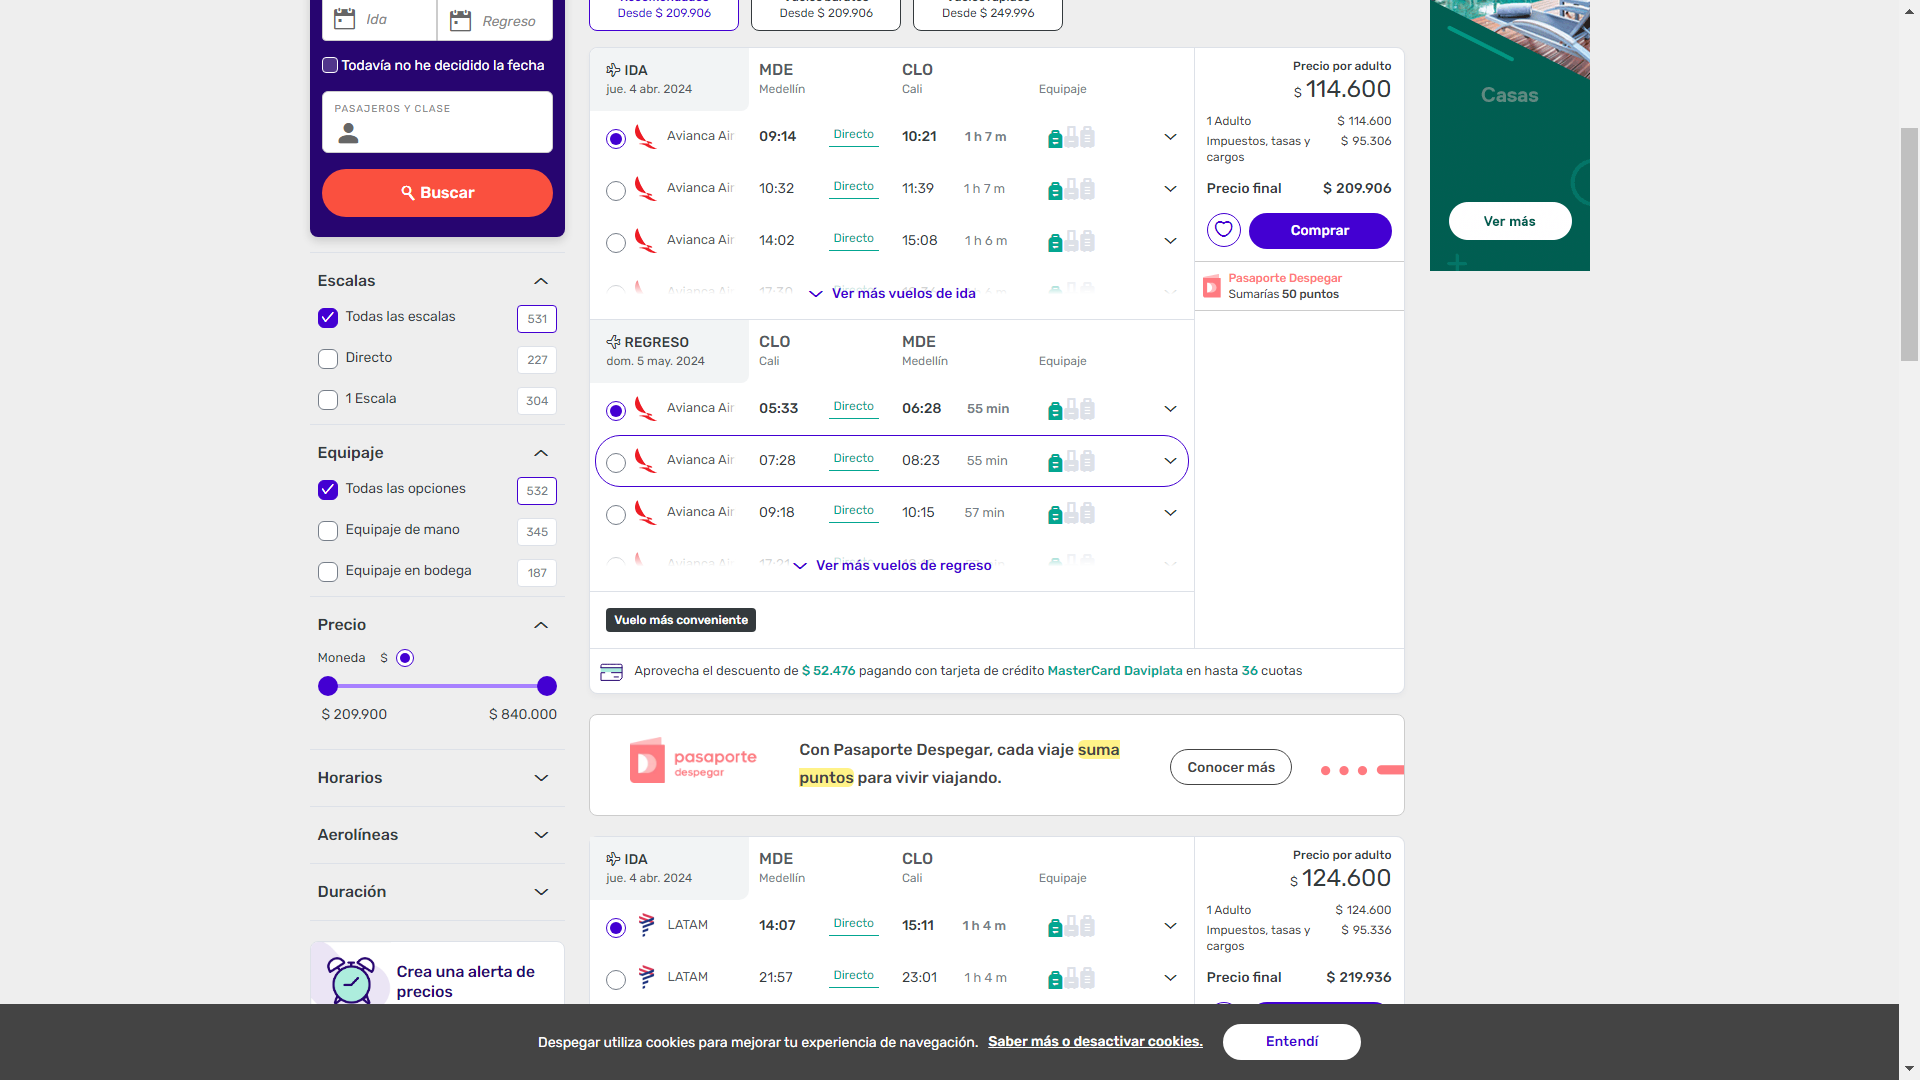
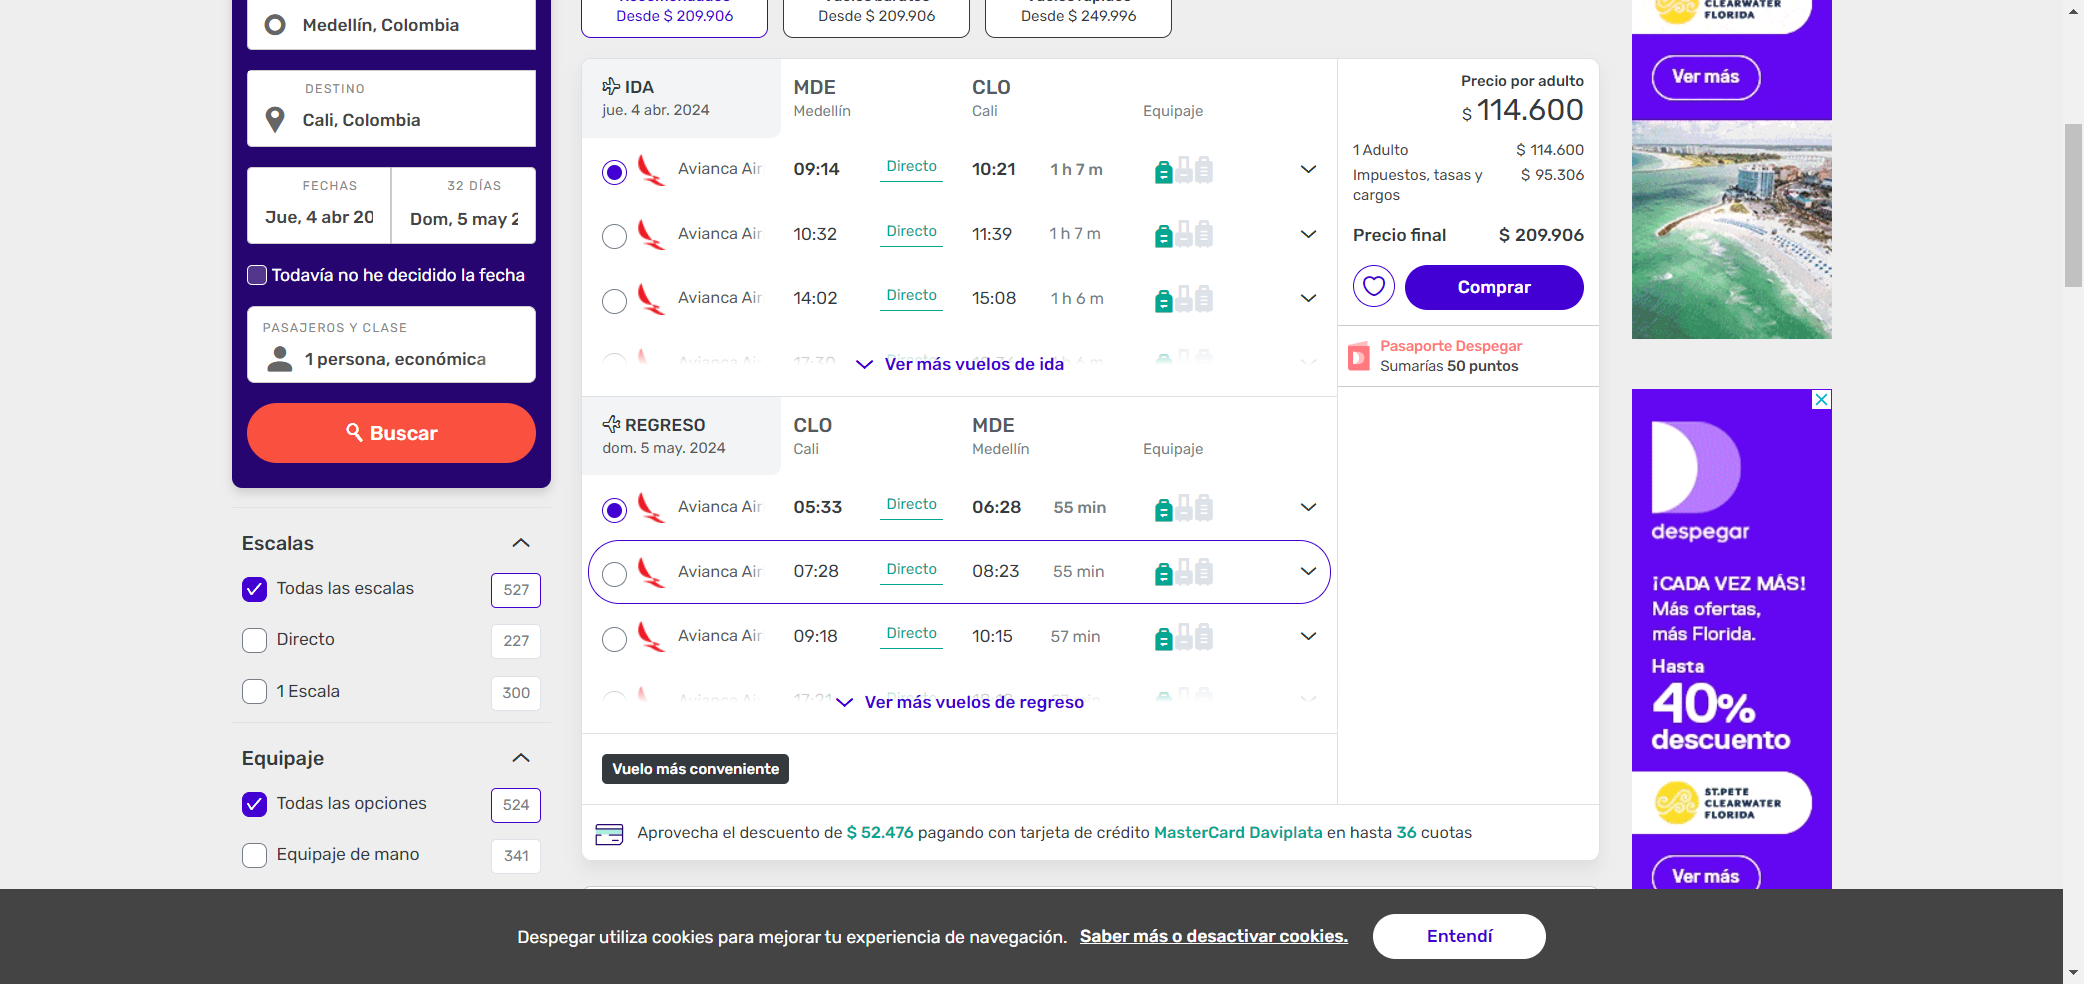
fix(Pom.xml): removing screenshot methods.

diff --git a/src/test/java/cucumber/tests/Steps.java b/src/test/java/cucumber/tests/Steps.java
@@ -62,8 +62,8 @@ public class Steps {
         WebDriverManager.chromedriver().setup();
         ChromeOptions chromeOptions = new ChromeOptions();
       // chromeOptions.addArguments("disable-infobars"); // disabling infobars
-        chromeOptions.addArguments("--headless");
-        chromeOptions.addArguments("--window-size=1920,1080");
+        //chromeOptions.addArguments("--headless");
+        chromeOptions.addArguments("--window-size=1680,1050");
         driver = new ChromeDriver(chromeOptions);
         //driver.manage().window().maximize();
         driver.get("https://www.despegar.com.co"); //here goes the website URL

diff --git a/src/main/java/pages/FlightsHomePage.java b/src/main/java/pages/FlightsHomePage.java
@@ -39,13 +39,6 @@ public class FlightsHomePage {
     }
 
     public void closeLoginPopUp(){
-        try {
-            var camera = (TakesScreenshot)driver;
-            File screenshot = camera.getScreenshotAs(OutputType.FILE);
-            Files.move(screenshot,new File("C:\\Users\\User\\IdeaProjects\\Despegar_Website_Test\\Screenshots\\popUp1.png"));
-        } catch (IOException e) {
-            throw new RuntimeException(e);
-        }
         waitToBeClickable(By.cssSelector(" div.login-incentive--content > span"));
         driver.findElement(By.cssSelector(" div.login-incentive--content > span")).click();
     }

diff --git a/src/main/java/pages/FlightsResultPage.java b/src/main/java/pages/FlightsResultPage.java
@@ -49,7 +49,7 @@ public class FlightsResultPage {
         try {
             var camera = (TakesScreenshot)driver;
             File screenshot = camera.getScreenshotAs(OutputType.FILE);
-            Files.move(screenshot,new File("Despegar_Website_Test\\Screenshots\\test.png"));
+            Files.move(screenshot,new File("Screenshots\\test.png"));
         } catch (IOException e) {
             throw new RuntimeException(e);
         }
